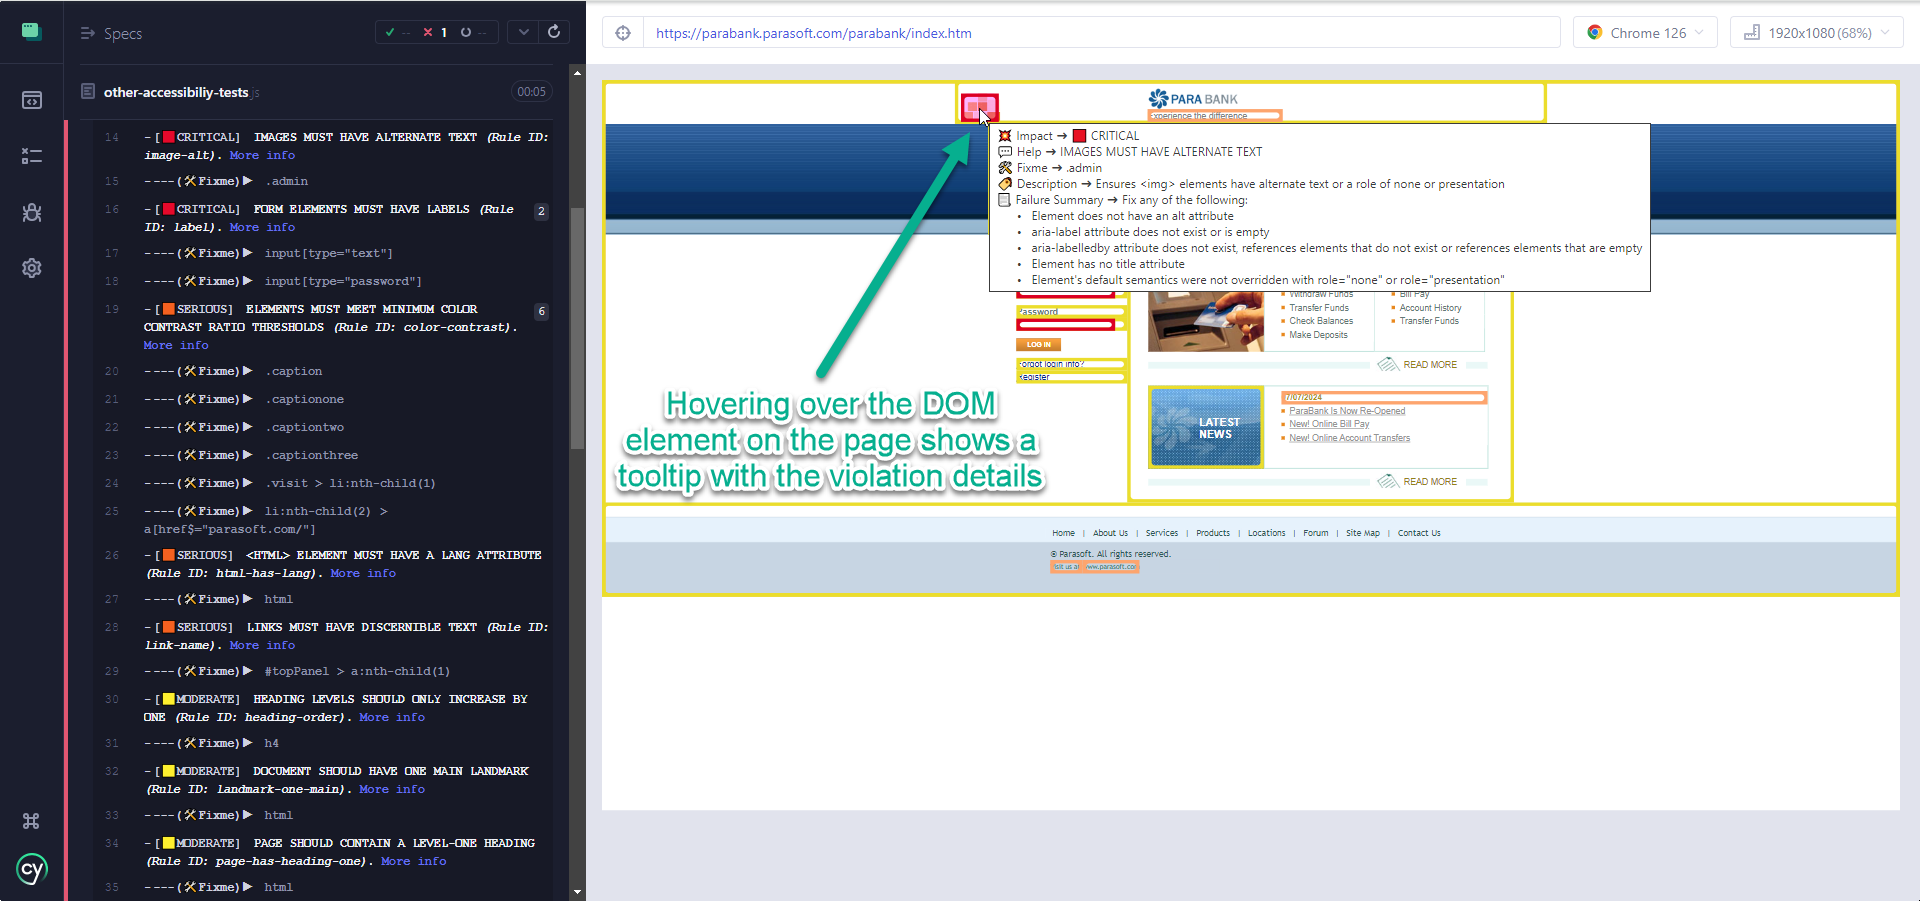
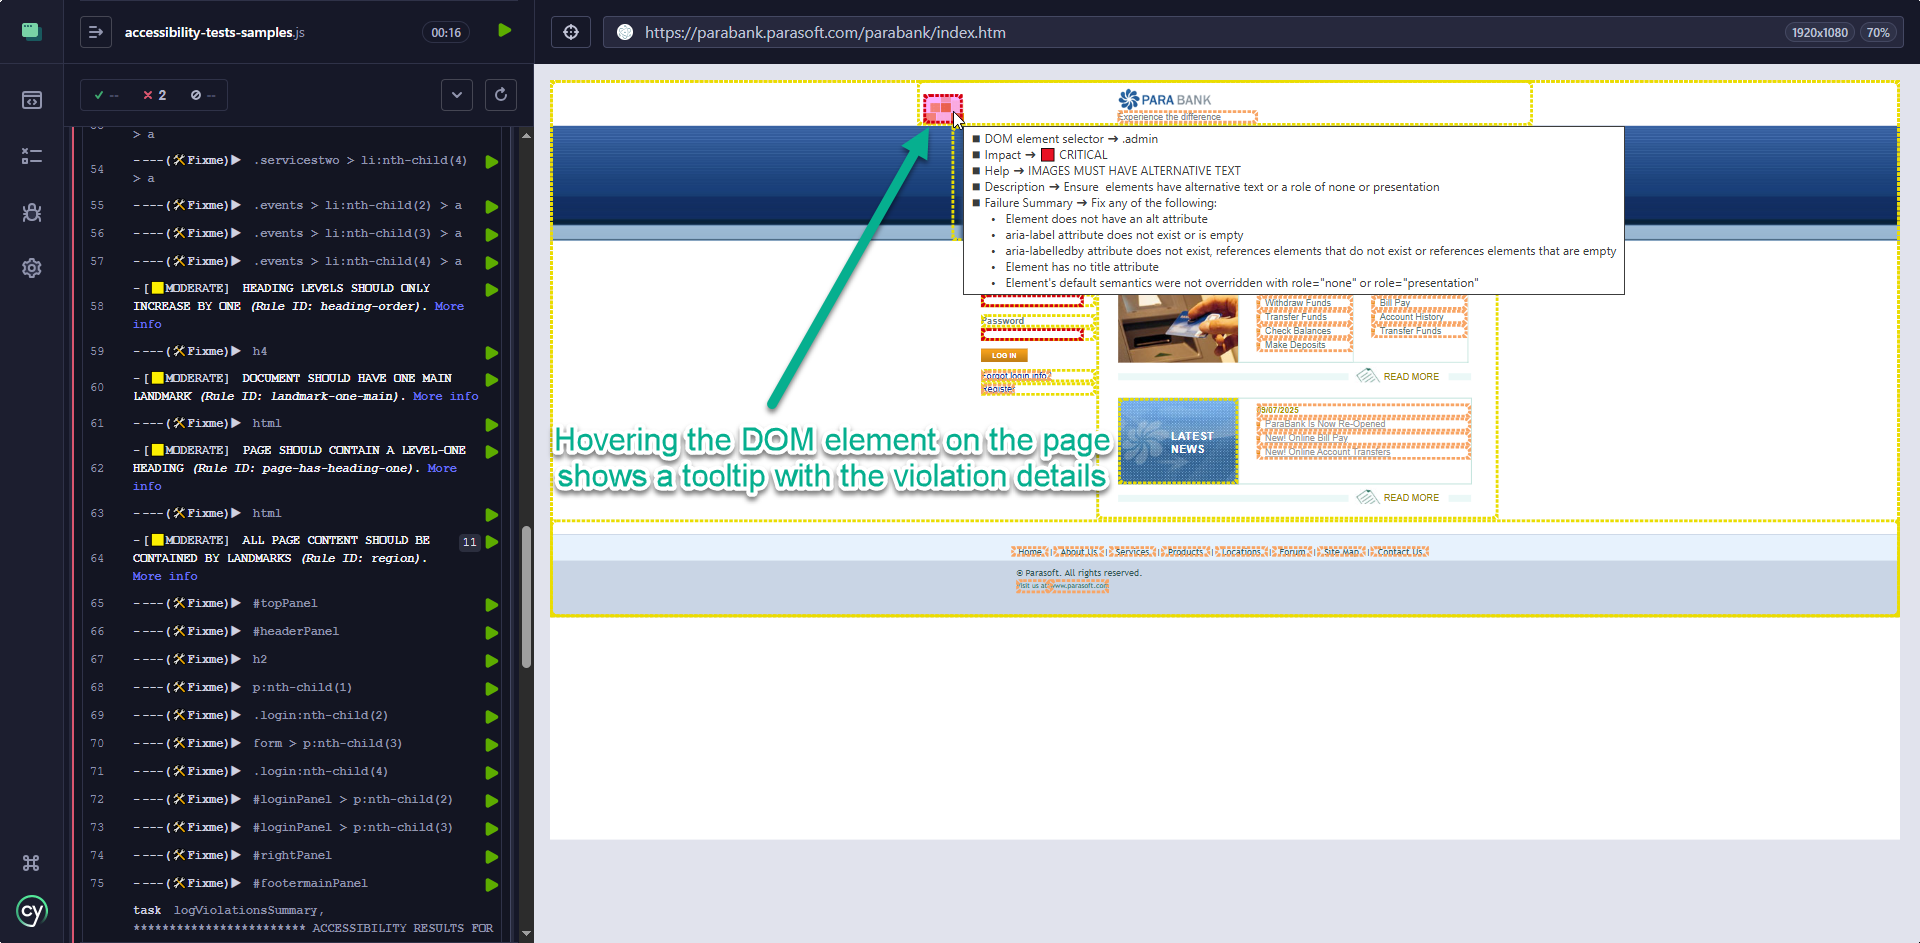
Documentation completed

Changed region(s): [[0.0, 0.0, 1.0, 1.0], [0.0312, 0.0311, 0.1562, 0.0622]]

diff --git a/src/index.d.ts b/src/index.d.ts
@@ -20,7 +20,7 @@ declare global {
              *   - {string[]} includedImpacts: Impact levels to include. Default ['critical', 'serious'].
              *   - {integer} retries: Number of times to retry the check if issues are found. Default is 0.
              *   - {integer} interval: Time in milliseconds between retries. Default 1000ms.
-             *   - {string[]} runOnly: Rules to run, e.g., ['wcag2a', 'wcag2aa'].
+             *   - {string[]} runOnly: Rules to run, e.g., ['wcag2a', 'wcag2aa', 'wcag2aaa', 'wcag21a', 'wcag21aa', 'wcag21aaa', 'wcag22a', 'wcag22aa', 'wcag22aaa', 'best-practice'].
              *   - {Object} rules: Enable or disable specific rules. E.g., { 'color-contrast': { enabled: false } }.
              *   - {string} reporter: Reporter version to use. E.g., 'v2'.
              *   - {string[]} resultTypes: Result types to process, like ['violations', 'inapplicable'].

diff --git a/cypress/e2e/accessibility-tests-samples.js b/cypress/e2e/accessibility-tests-samples.js
@@ -43,7 +43,7 @@ describe('ACCESSIBILITY TESTS', { tags: ['@accessibility'] }, () => {
     it('Test Sample Page Accessibility - Custom colors by severity', {defaultCommandTimeout: 15000}, () => {
         const customImpactStyling = {
             serious: { icon: '🟢', style: 'fill: #42C600; fill-opacity: 0; stroke: #42C600; stroke-width: 7;' },
-            moderate: { icon: '🟣', style: 'fill: #886DE7; fill-opacity: 0.3; stroke: #886DE7; stroke-width: 6; stroke-dasharray: 5,3;' },
+            moderate: { icon: '🟣', style: 'fill: #886DE7; fill-opacity: 0; stroke: #886DE7; stroke-width: 6; stroke-dasharray: 5,3;' },
             minor: { style: 'fill: #4598FF; fill-opacity: 0; stroke: #4598FF; stroke-width: 14; ' },
             fixme: { icon: '🪓' }
         }

diff --git a/cypress.config.js b/cypress.config.js
@@ -8,8 +8,7 @@ module.exports = defineConfig({
   viewportHeight: 1080,
 
   retries: {
-    // openMode: 0,
-    openMode: 0,
+    openMode: 1,
     runMode: 0,
   },
 

diff --git a/README.md b/README.md
@@ -260,7 +260,7 @@ Cypress custom command to check the accessibility of a given context using axe-c
    
     > ⚠ **IMPORTANT:**  You must include all the rules (tags) that you want to execute in your analysis in this list. 
     > 
-    > For example, if you want to run WCAG 2.1AA and all the previous versions of that standard (WCAG 2.0A, WCAG 2.0AA, WCAG 2.1A), you need to list them explicitly. Otherwise, only the rules specific to WCAG 2.1AA will be executed.
+    > For example, if you want to run WCAG 2.2 AAA and all the previous versions of that standard (wcag2a, wcag2aa, wcag2aaa, wcag21a, wcag21aa, wcag21aaa, wcag22a, wcag22aa, , wcag22aaa), you need to list them explicitly. Otherwise, only the rules specific to WCAG 2.2 AAA will be executed.
    
   - **`rules`**: (optional) *From axe-core®* - Enable or disable rules using the enabled property.
 
@@ -441,7 +441,6 @@ Styles by default: Critical 🟥, Serious 🟧, Moderate 🟨, Minor 🟦
 
 If there are any violations for the selected rules used in the analysis, the test will fail.
 
-TODO: REPLACE!!!
 ![Runner Results](/images/runner-results.png)
 
 ### Summary of Violations
@@ -456,7 +455,6 @@ If the analysis was configured to consider accessibility issues as either a viol
 
 By clicking on one of the severity groups in the summary, the details for all the violations of that severity type will be shown in the browser console.
 
-TODO: REPLACE!!!
 ![Summary Details per Severity Type](/images/summary-details-severity.png)
 
 
@@ -464,7 +462,6 @@ TODO: REPLACE!!!
 
 To identify, in the page, which HTML element is affected by an accessibility violation, mouseover the specific violation in the Cypress log, and that element will be highlighted on the page. To know the details about the accessibility issue, click on the violation in the Cypress log and those details will be shown in the browser console.
 
-TODO: REPLACE!!!
 ![Runner Console](/images/runner-console-new.png)
 
 
@@ -472,7 +469,6 @@ TODO: REPLACE!!!
 
 When hovering over a specific DOM element with a violation on the page in the Cypress runner, the element will be highlighted graphically, and a tooltip will appear showing the violation information. This feature allows you to quickly identify and understand accessibility issues directly on the page, providing an immediate and intuitive way to address them.
 
-TODO: REPLACE!!!
 ![Runner Screen](/images/runner-screen.png)
 
 
@@ -497,7 +493,6 @@ The accessibility voice feature at the suite level in the Cypress Log provides a
 - Number of tests failed for other reasons
 - Number of tests skipped or pending
 
-TODO: REPLACE!!!
 ![Voice Suite Level](/images/voice-suite.png)
 
 [Watch the video](/videos/README.md#accessibility-voice-for-analysis-at-suite-level-in-cypress-log "Accessibility Voice for Analysis at Suite Level in Cypress Log")
@@ -513,7 +508,6 @@ The accessibility voice feature at the test level in the Cypress Log provides au
 - Number of moderate violations
 - Number of minor violations
 
-TODO: REPLACE!!!
 ![Voice Test Level](/images/voice-test.png)
 
 [Watch the video](/videos/README.md#accessibility-voice-for-analysis-at-test-level-in-cypress-log "Accessibility Voice for Analysis at Test Level in Cypress Log")
@@ -527,7 +521,6 @@ The accessibility voice feature at the violation type level in the Cypress Log p
 - The severity of the violation
 - A description of the violation
 
-TODO: REPLACE!!!
 ![Voice Violation Type Level](/images/voice-violation.png)
 
 [Watch the video](/videos/README.md#accessibility-voice-for-analysis-at-violation-type-level-in-cypress-log "Accessibility Voice for Analysis at Violation Type Level in Cypress Log")
@@ -542,7 +535,6 @@ The accessibility voice feature at the DOM element level in the Cypress Log prov
 - A description of the violation
 - A summary of the actions needed to fix the issue
 
-TODO: REPLACE!!!
 ![Voice DOM Element Level](/images/voice-dom-element.png)
 
 [Watch the video](/videos/README.md#accessibility-voice-for-analysis-at-dom-element-level-in-cypress-log "Accessibility Voice for Analysis at DOM Element Level in Cypress Log")
@@ -557,10 +549,20 @@ The wick-a11y plugin also provides accessibility voice for a DOM element by clic
 - A description of the violation
 - A summary of the actions needed to fix the issue
 
-TODO: REPLACE!!!
 ![Voice DOM Element Web Page](/images/voice-dom-element-page.png)
 
 [Watch the video](/videos/README.md#accessibility-voice-for-analysis-at-dom-element-level-in-the-web-page "Accessibility Voice for Analysis at DOM Element Level in the Web Page")
+
+
+### Custom Styles Based on Severity
+
+It is possible to configure styles for the different types of violation severity beyond the default red, orange, yellow, and blue.
+
+Configured custom styles are displayed in the Cypress runner:
+
+![Configured custom styles](images/runner-custom-styles.png)
+
+Same custom styles shown in the HTML report:
 
 
 ### HTML Report
@@ -586,26 +588,45 @@ The image file is also referenced within the HTML report.
 
 ![Accessibility Files](/images/accessibility-files.png)
 
-In the report, accessibility issues are ordered by severity, and at the end of the report, an image with a screenshot of the page with the violations colored based on severity is included.
-More details on how to fix each of those violations can be seen by hovering over them in the HTML report.
+At the top of the report, it is displayed a card with a **Report Summary**. Accessibility issues are grouped into cards and ordered by severity. All cards in the report are expandable and collapsible.
 
-TODO: REPLACE!!!
+Also at the end of the report, a screenshot of the page shows violations boxed and color‑coded by severity.
+
+
 ![HTML Report](/images/html-report.png)
 
-> ✔ **Note:** The HTML accessibility report generated by the plugin complies with all severity levels—critical, serious, moderate, and minor. It also adheres to the tags wcag2a, wcag2aa, wcag21a, wcag21aa, and best-practice.
+> ✔ **Note:** The HTML accessibility report generated by the plugin complies with all severity levels—critical, serious, moderate, and minor. It also adheres to the tags wcag2a, wcag2aa, wcag2aaa, wcag21a, wcag21aa, wcag21aaa, wcag22a, wcag22aa, wcag22aaa, and best-practice.
 
-### Custom Styles Based on Severity (Cypress runner and HTML Report)
 
-It is possible to configure styles for the different types of violation severity beyond the default red, orange, yellow, and blue.
+#### Report Summary
 
-Configured custom styles are displayed in the Cypress runner:
+At the beginning of the HTML report, an expandable/collapsible Report Summary section appears. It includes:
 
-![Configured custom styles](images/runner-custom-styles.png)
+  - Test summary: spec name, test name, page URL, and generation timestamp
+  - Accessibility configuration: context, tabs, and rules
+  - Violations: total counts by severity
 
-Same custom styles shown in the HTML report:
+For convenience, at the top there are buttons that let you Expand All cards, Collapse All cards, and Scroll to the Screenshot.
 
-TODO: REPLACE!!!
-![Custom styles in HTML report](images/report-custom-styles.png)
+![HTML Report Summary](/images/html-report-summary.png)
+
+
+#### Accessibility Violations Details
+
+The **Accessibility Violations Details** section includes a card for each Severity Level included in the analysis: Critical, Serious, Moderate, and/or Minor.
+
+Within each section, there is a list of violation types for that severity, and for each violation type, a list of the affected DOM elements with details about how to fix the issue.
+
+![HTML Accessibility Violations Details](/images/html-report-violations-details.png)
+
+
+#### Accessibility Violations ScreenShot
+
+At the end of the report, there is a section that includes a screenshot showing the elements affected by accessibility issues, color‑coded by severity. 
+
+This section also includes a disclaimer, a reference to axe-core®, and a button to return to the top of the page.
+
+![HTML Accessibility Violations ScreenShot](/images/html-report-violations-screenshot.png)
 
 
 ### Terminal Report
@@ -754,7 +775,3 @@ Thank you for your support!
 
 - and many more...
 
-
-&nbsp;
-
-![WICK-A11Y](/images/wick_ally_red.png)
